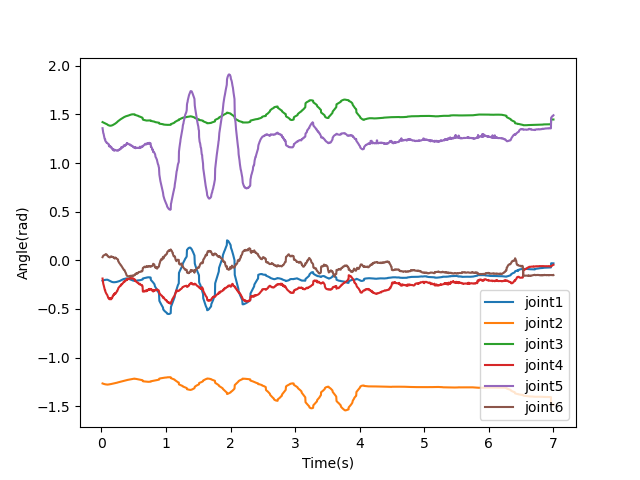
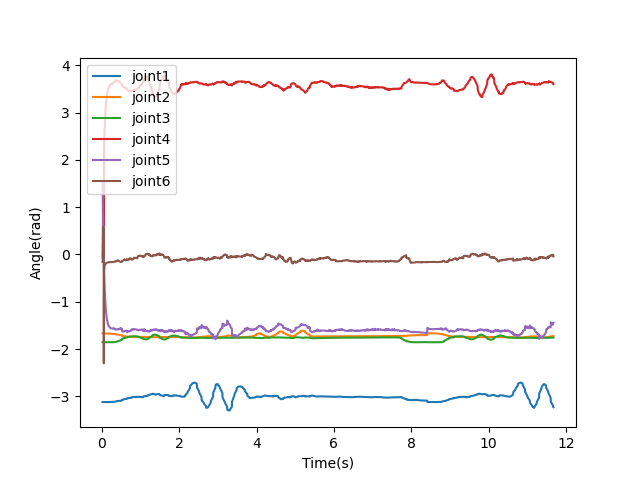
Fixed the orientation bug of arm in inverse kinematics.

diff --git a/InverseKinematics/UR5E_Inverse_Kinematics.py b/InverseKinematics/UR5E_Inverse_Kinematics.py
@@ -27,7 +27,7 @@ given_fixed_orientation = False
 fixed_orientation = [1.0, 0.0, 0.0, 0.0]
 draw_end_effector_coordinate = True
 calculate_wrist_orientation_self = True
-plot_angles = False
+plot_angles = True
 
 
 class ur5e_robot_inverse_kinematics(ur5_robot_inverse_kinematics):
@@ -106,7 +106,7 @@ class ur5e_robot_inverse_kinematics(ur5_robot_inverse_kinematics):
         wrist_pos = target_position[0]
         elbow_pos = target_position[1]
         # Get first yaw angle
-        yaw_ang = math.atan2(wrist_pos[1], wrist_pos[0])
+        yaw_ang = math.atan2(wrist_pos[1], wrist_pos[0]) + math.pi
         # Get next two pitch angles
         r_target = numpy.linalg.norm(numpy.array(wrist_pos))
         link_length = [numpy.linalg.norm(numpy.array(elbow_pos)),
@@ -114,8 +114,8 @@ class ur5e_robot_inverse_kinematics(ur5_robot_inverse_kinematics):
         cos_pitch1 = (r_target ** 2 + link_length[0] ** 2 - link_length[1] ** 2) / (2 * r_target * link_length[0])
         cos_pitch2 = (link_length[0] ** 2 + link_length[1] ** 2 - r_target ** 2) / (2 * link_length[0] * link_length[0])
         r_xy = (wrist_pos[0] ** 2 + wrist_pos[1] ** 2) ** 0.5
-        pitch1_ang = -(math.atan2(wrist_pos[2], r_xy) + safe_arccos(cos_pitch1))
-        pitch2_ang = safe_arccos(-cos_pitch2)
+        pitch1_ang = -(math.pi - (math.atan2(wrist_pos[2], r_xy) + safe_arccos(cos_pitch1)))
+        pitch2_ang = -safe_arccos(-cos_pitch2)
         return [yaw_ang, pitch1_ang, pitch2_ang, 0.0, 0.0, 0.0]
 
     def calculate_inverse_kinematics(
@@ -178,7 +178,7 @@ class ur5e_robot_inverse_kinematics(ur5_robot_inverse_kinematics):
 
 
 if __name__ == "__main__":
-    disp_human_demonstrate_file = '../DemonstrateData/demo1.pkl'
+    disp_human_demonstrate_file = '../DemonstrateData/demo3.pkl'
     # disp_human_demonstrate_file = '../DemonstrateData/humanDemonstrate.h5'
     disp_human_demonstrate_file_ish5 = disp_human_demonstrate_file.endswith('h5')
     # Load demonstrate data
@@ -208,7 +208,10 @@ if __name__ == "__main__":
                 # WARNING: Negative Position Z in both position and orientation, flipped along the YZ plane meanwhile.
                 for i in range(3):
                     target_pos[i][0] = -target_pos[i][0]
-                    target_pos[i][2] = -target_pos[i][2]
+                    target_pos[i][1] = -target_pos[i][1]
+                target_pos[2][0] += 0.1
+                target_pos[1][2] += 0.2
+                # target_pos[2][2] += 0.3
                 target_ori = [list(Rotation.from_matrix(
                     numpy.matrix(numpy.diag([-1, -1, 1])) @ Rotation.from_quat(target_ori[0]).as_matrix() @
                     numpy.matrix(numpy.diag([-1, 1, -1]))).as_quat(canonical=True))]
@@ -251,5 +254,6 @@ if __name__ == "__main__":
             plt.legend(['joint' + str(i + 1) for i in range(6)])
             plt.xlabel('Time(s)')
             plt.ylabel('AngularSpeed(rad/s)')
+            plt.ylim([-0.1, 0.1])
             plt.savefig('../Output/ctrlAngularSpeed.png')
             plt.show()
